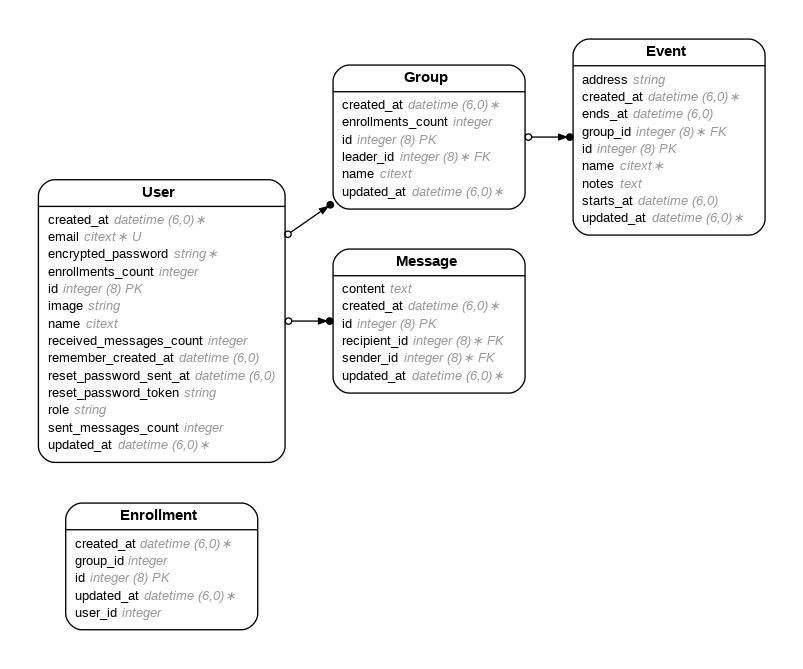
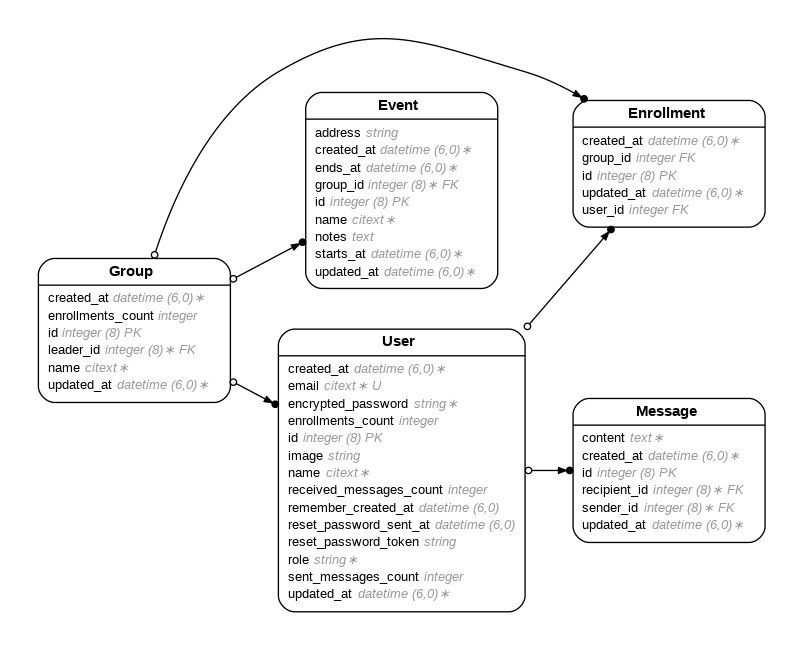
added additional validations to Group, Enrollment, and Message models; added migration to add uniqueness index to Enrollments

diff --git a/spec/models/group_spec.rb b/spec/models/group_spec.rb
@@ -1,3 +1,22 @@
+# == Schema Information
+#
+# Table name: groups
+#
+#  id                :bigint           not null, primary key
+#  enrollments_count :integer          default(0)
+#  name              :citext
+#  created_at        :datetime         not null
+#  updated_at        :datetime         not null
+#  leader_id         :bigint           not null
+#
+# Indexes
+#
+#  index_groups_on_leader_id  (leader_id)
+#
+# Foreign Keys
+#
+#  fk_rails_...  (leader_id => users.id)
+#
 require 'rails_helper'
 
 RSpec.describe Group, type: :model do
@@ -34,35 +53,38 @@ RSpec.describe Group, type: :model do
     expect(test_group.upcoming_events).to include(event)
   end
 
-  it 'has an association with Enrollments model' do
-    user = User.create!(name: 'Roger Goodell', email: 'roger@example.com', password: 'password', role: 'teacher')
+  it 'has an association with Enrollments model and automatically creates Enrollment for group leader' do
+    user = User.create!(name: 'Saquon Barkley', email: 'saquon@example.com', password: 'password', role: 'teacher')
     test_group = Group.create!(name: 'National Football League', leader_id: user.id)
-    enrollment = Enrollment.create!(group_id: test_group.id, user_id: user.id)
     expect(test_group.enrollments.first.user_id).to be(user.id)
   end
 
+  it 'does not allow guardians to be group leaders' do
+    user = User.create!(name: 'Roger Goodell', email: 'roger@example.com', password: 'password', role: 'guardian')
+    expect {
+      Group.create!(name: 'National Football League', leader_id: user.id)
+    }.to raise_error(ActiveRecord::RecordInvalid, /group leader must be a teacher/)
+  end
+
   it 'has a members indirect association with User model' do
-    user = User.create!(name: 'Roger Goodell', email: 'roger@example.com', password: 'password', role: 'teacher')
+    user = User.create!(name: 'Pete Rozelle', email: 'pete@example.com', password: 'password', role: 'teacher')
     test_group = Group.create!(name: 'National Football League', leader_id: user.id)
-    enrollment = Enrollment.create!(group_id: test_group.id, user_id: user.id)
     expect(test_group.members).to include(user)
   end
 
   it 'has a teacher_members indirect association with User model' do
-    user = User.create!(name: 'Roger Goodell', email: 'roger@example.com', password: 'password', role: 'teacher')
+    user = User.create!(name: 'Andy Reid', email: 'andy@example.com', password: 'password', role: 'teacher')
     user2 = User.create!(name: 'Patrick Mahomes', email: 'pat@example.com', password: 'password', role: 'guardian')
     test_group = Group.create!(name: 'National Football League', leader_id: user.id)
-    enrollment = Enrollment.create!(group_id: test_group.id, user_id: user.id)
     enrollment2 = Enrollment.create!(group_id: test_group.id, user_id: user2.id)
     expect(test_group.teacher_members).to include(user)
     expect(test_group.teacher_members).not_to include(user2)
   end
 
   it 'has a guardian_members indirect association with User model' do
-    user = User.create!(name: 'Roger Goodell', email: 'roger@example.com', password: 'password', role: 'teacher')
-    user2 = User.create!(name: 'Patrick Mahomes', email: 'pat@example.com', password: 'password', role: 'guardian')
+    user = User.create!(name: 'Jalen Hurts', email: 'jalen@example.com', password: 'password', role: 'teacher')
+    user2 = User.create!(name: 'Travis Kelce', email: 'travis@example.com', password: 'password', role: 'guardian')
     test_group = Group.create!(name: 'National Football League', leader_id: user.id)
-    enrollment = Enrollment.create!(group_id: test_group.id, user_id: user.id)
     enrollment2 = Enrollment.create!(group_id: test_group.id, user_id: user2.id)
     expect(test_group.guardian_members).not_to include(user)
     expect(test_group.guardian_members).to include(user2)

diff --git a/spec/models/message_spec.rb b/spec/models/message_spec.rb
@@ -1,3 +1,24 @@
+# == Schema Information
+#
+# Table name: messages
+#
+#  id           :bigint           not null, primary key
+#  content      :text
+#  created_at   :datetime         not null
+#  updated_at   :datetime         not null
+#  recipient_id :bigint           not null
+#  sender_id    :bigint           not null
+#
+# Indexes
+#
+#  index_messages_on_recipient_id  (recipient_id)
+#  index_messages_on_sender_id     (sender_id)
+#
+# Foreign Keys
+#
+#  fk_rails_...  (recipient_id => users.id)
+#  fk_rails_...  (sender_id => users.id)
+#
 require 'rails_helper'
 
 RSpec.describe Message, type: :model do
@@ -5,6 +26,12 @@ RSpec.describe Message, type: :model do
     user = User.create!(name: 'Roger Goodell', email: 'roger@example.com', password: 'password', role: 'teacher')
     user2 = User.create!(name: 'Patrick Mahomes', email: 'pat@example.com', password: 'password', role: 'guardian')
     msg = Message.new(sender_id: user.id, recipient_id: user2.id, content: nil)
+    expect(msg).not_to be_valid
+  end
+
+  it 'does not allow users to send messages to themselves' do
+    user = User.create!(name: 'Jalen Hurts', email: 'andy@example.com', password: 'password', role: 'teacher')
+    msg = Message.new(content: "Congratulations!", sender_id: user.id, recipient_id: user.id)
     expect(msg).not_to be_valid
   end
 end

diff --git a/app/models/group.rb b/app/models/group.rb
@@ -19,12 +19,31 @@
 #
 class Group < ApplicationRecord
   validates :name, presence: true
+  validate :leader_must_be_teacher
   belongs_to :leader, class_name: "User"
+
   has_many :events, dependent: :destroy
   has_many :past_events, -> { past }, foreign_key: :group_id, class_name: "Event"
   has_many :upcoming_events, -> { upcoming }, foreign_key: :group_id, class_name: "Event"
+
   has_many :enrollments, class_name: "Enrollment", foreign_key: "group_id", dependent: :destroy
   has_many :members, through: :enrollments, source: :user
   has_many :teacher_members, -> { where(role: "teacher") }, through: :enrollments, source: :user
   has_many :guardian_members, -> { where(role: "guardian") }, through: :enrollments, source: :user
+  after_create :create_leader_enrollment
+
+  def leader_must_be_teacher
+    user = User.find_by(id: leader_id)
+    if user.nil?
+      errors.add(:leader_id, "must reference a valid user")
+    elsif user.role != "teacher"
+      errors.add(:leader_id, "group leader must be a teacher")
+    end
+  end
+
+  private
+
+  def create_leader_enrollment
+    Enrollment.create(group_id: id, user_id: leader_id)
+  end
 end

diff --git a/spec/models/enrollment_spec.rb b/spec/models/enrollment_spec.rb
@@ -1,0 +1,27 @@
+# == Schema Information
+#
+# Table name: enrollments
+#
+#  id         :bigint           not null, primary key
+#  created_at :datetime         not null
+#  updated_at :datetime         not null
+#  group_id   :integer
+#  user_id    :integer
+#
+# Indexes
+#
+#  index_enrollments_on_user_id_and_group_id  (user_id,group_id) UNIQUE
+#
+require 'rails_helper'
+
+RSpec.describe Enrollment, type: :model do
+  it "does not the same user to enroll in the same group more than once" do
+    user = User.create!(name: 'Andy Reid', email: 'andy@example.com', password: 'password', role: 'teacher')
+    user2 = User.create!(name: 'Patrick Mahomes', email: 'pat@example.com', password: 'password', role: 'guardian')
+    test_group = Group.create!(name: 'National Football League', leader_id: user.id)
+    enrollment = Enrollment.create!(group_id: test_group.id, user_id: user2.id)
+    expect {
+      Enrollment.create!(group_id: test_group.id, user_id: user2.id)
+    }.to raise_error(ActiveRecord::RecordInvalid)
+  end
+end

diff --git a/spec/models/user_spec.rb b/spec/models/user_spec.rb
@@ -1,3 +1,28 @@
+# == Schema Information
+#
+# Table name: users
+#
+#  id                      :bigint           not null, primary key
+#  email                   :citext           default(""), not null
+#  encrypted_password      :string           default(""), not null
+#  enrollments_count       :integer          default(0)
+#  image                   :string
+#  name                    :citext
+#  received_messages_count :integer          default(0)
+#  remember_created_at     :datetime
+#  reset_password_sent_at  :datetime
+#  reset_password_token    :string
+#  role                    :string
+#  sent_messages_count     :integer          default(0)
+#  created_at              :datetime         not null
+#  updated_at              :datetime         not null
+#
+# Indexes
+#
+#  index_users_on_email                 (email) UNIQUE
+#  index_users_on_name                  (name)
+#  index_users_on_reset_password_token  (reset_password_token) UNIQUE
+#
 require 'rails_helper'
 
 RSpec.describe User, type: :model do

diff --git a/db/schema.rb b/db/schema.rb
@@ -10,7 +10,7 @@
 #
 # It's strongly recommended that you check this file into your version control system.
 
-ActiveRecord::Schema[7.1].define(version: 2025_02_08_193219) do
+ActiveRecord::Schema[7.1].define(version: 2025_02_11_034933) do
   # These are extensions that must be enabled in order to support this database
   enable_extension "citext"
   enable_extension "plpgsql"
@@ -20,6 +20,7 @@ ActiveRecord::Schema[7.1].define(version: 2025_02_08_193219) do
     t.integer "user_id"
     t.datetime "created_at", null: false
     t.datetime "updated_at", null: false
+    t.index ["user_id", "group_id"], name: "index_enrollments_on_user_id_and_group_id", unique: true
   end
 
   create_table "events", force: :cascade do |t|

diff --git a/spec/models/event_spec.rb b/spec/models/event_spec.rb
@@ -1,3 +1,25 @@
+# == Schema Information
+#
+# Table name: events
+#
+#  id         :bigint           not null, primary key
+#  address    :string
+#  ends_at    :datetime
+#  name       :citext           default(""), not null
+#  notes      :text
+#  starts_at  :datetime
+#  created_at :datetime         not null
+#  updated_at :datetime         not null
+#  group_id   :bigint           not null
+#
+# Indexes
+#
+#  index_events_on_group_id  (group_id)
+#
+# Foreign Keys
+#
+#  fk_rails_...  (group_id => groups.id)
+#
 require 'rails_helper'
 
 RSpec.describe Event, type: :model do

diff --git a/app/models/message.rb b/app/models/message.rb
@@ -23,4 +23,13 @@ class Message < ApplicationRecord
   belongs_to :sender, class_name: "User", counter_cache: :sent_messages_count
   belongs_to :recipient, class_name: "User", counter_cache: :received_messages_count
   validates :content, presence: true
+  validate :cannot_send_message_to_self
+
+  private
+
+  def cannot_send_message_to_self
+    if sender_id == recipient_id
+      errors.add(:sender_id, "cannot send yourself a message")
+    end
+  end
 end

diff --git a/app/models/enrollment.rb b/app/models/enrollment.rb
@@ -8,7 +8,12 @@
 #  group_id   :integer
 #  user_id    :integer
 #
+# Indexes
+#
+#  index_enrollments_on_user_id_and_group_id  (user_id,group_id) UNIQUE
+#
 class Enrollment < ApplicationRecord
   belongs_to :user, counter_cache: true
   belongs_to :group, counter_cache: true
+  validates :user_id, uniqueness: { scope: :group_id, message: "User is already enrolled" }
 end

diff --git a/db/migrate/20250211034933_add_uniqueness_index_to_enrollments.rb b/db/migrate/20250211034933_add_uniqueness_index_to_enrollments.rb
@@ -1,0 +1,5 @@
+class AddUniquenessIndexToEnrollments < ActiveRecord::Migration[7.1]
+  def change
+    add_index :enrollments, [:user_id, :group_id], unique: true
+  end
+end
